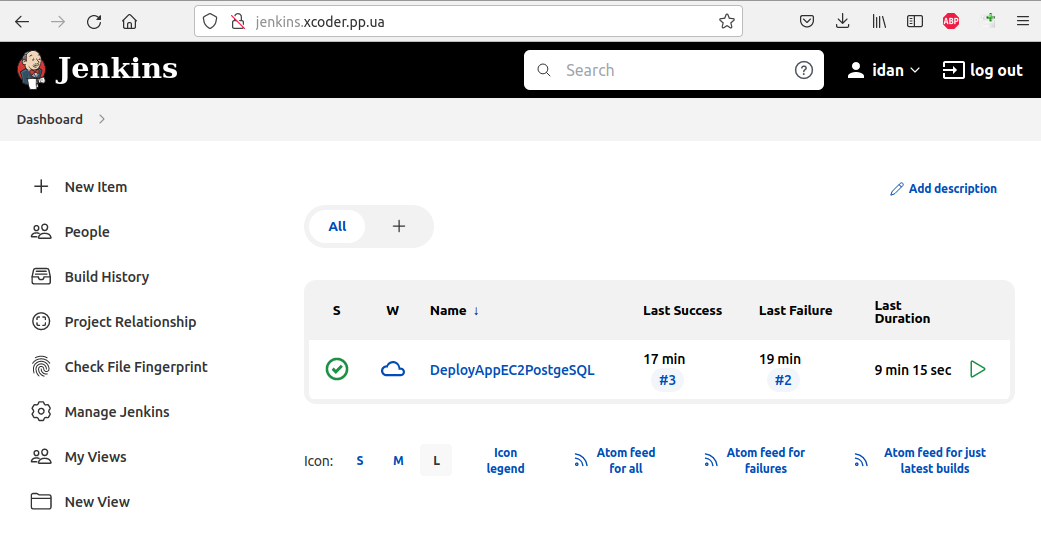
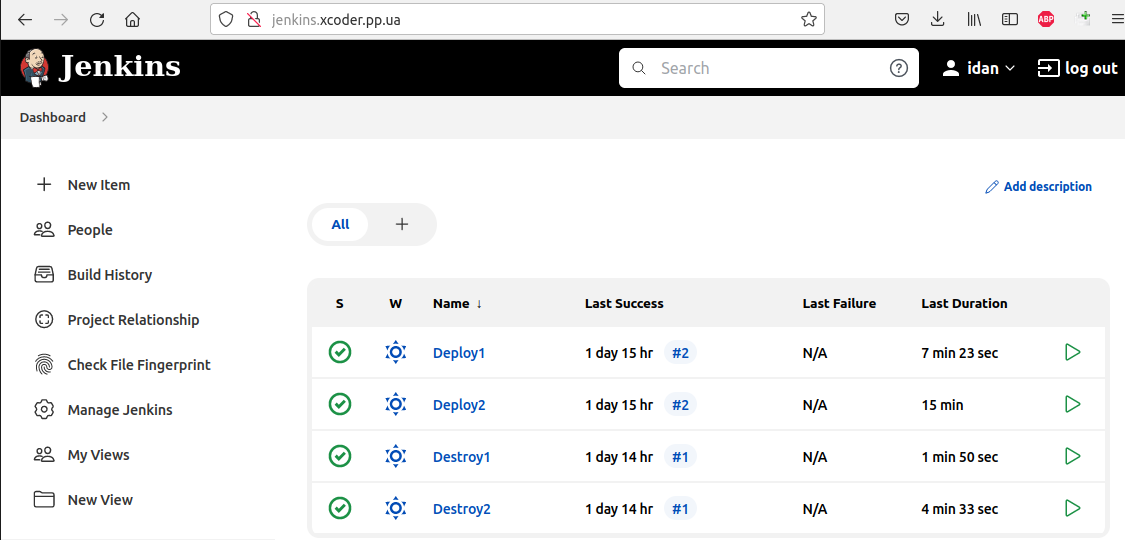
fix some m9 files

diff --git a/m9/Deploy1Application.md b/m9/Deploy1Application.md
@@ -1,12 +1,25 @@
 ## Jenkins Deploy petclinic application pipeline
 
-### 1. Manually add credentials to Jenkins for AWS access and future database access
+### 1. Infrastructure configuration storage
+
+Manually create S3 Bucket **pet-clinic-project**
+
+![p1](img/p1.png)
+
+and DynamoDB lock table **petclinic-tf-lock**
+
+![p2](img/p2.png)
+
+with partition key **LockID**.
+
+
+### 2. Manually add credentials to Jenkins for AWS access and future database access
 
 ![a1](img/a1.png)
 
-### 2. Create and configure Pipeline that creates,  configures infrastructure, deploys application
+### 3. Create and configure Pipeline that creates,  configures infrastructure, deploys application
 
-Create new pipeline
+Create new pipeline Deploy1
 
 ![a3](img/a3.png)
 
@@ -32,7 +45,7 @@ pipeline {
         stage ('Get Project from repository'){
             steps {
                 git branch: 'master', url: 'https://github.com/uixcoder/spring-framework-petclinic.git'
-                dir ('Deploy_AWS_EC2_PostgerSQL') {
+                dir ('Deploy') {
                     git branch: 'master', url: 'https://github.com/uixcoder/Deploy_AWS_EC2_PostgerSQL.git'
                 }
             }
@@ -40,38 +53,38 @@ pipeline {
         stage ('Create AWS infrastructure'){
             steps {
               sh script: '''
-                    chdir Deploy_AWS_EC2_PostgerSQL/Terraform
-                    terraform init -reconfigure
+                    chdir Deploy/Terraform
+                    terraform init -force-copy
                     terraform apply --auto-approve
               ''' 
             }
         }  
         stage ('Fix error / Preconfigure Project'){
            steps {
-                sh "chmod u+x Deploy_AWS_EC2_PostgerSQL/Ansible/app/fix"
-                sh "./Deploy_AWS_EC2_PostgerSQL/Ansible/app/fix"
+                sh "chmod u+x Deploy/Ansible/app/fix"
+                sh "./Deploy/Ansible/app/fix"
                 sh "find . -type f -name 'pom.xml' -exec sed -i 's/db_name_template/$DB_NAME/g' {} +"
                 sh "find . -type f -name 'pom.xml' -exec sed -i 's/db_user_template/$DB_USER/g' {} +"
                 sh "find . -type f -name 'pom.xml' -exec sed -i 's/db_password_template/$DB_PASSWORD/g' {} +"
-                sh "find ./Deploy_AWS_EC2_PostgerSQL/Ansible/ -type f -name 'configDbServer.yml' -exec sed -i 's/db_name_template/$DB_NAME/g' {} +"
-                sh "find ./Deploy_AWS_EC2_PostgerSQL/Ansible/ -type f -name 'configDbServer.yml' -exec sed -i 's/db_user_template/$DB_USER/g' {} +"
-                sh "find ./Deploy_AWS_EC2_PostgerSQL/Ansible/ -type f -name 'configDbServer.yml' -exec sed -i 's/db_password_template/$DB_PASSWORD/g' {} +"                   
+                sh "find ./Deploy/Ansible/ -type f -name 'configDbServer.yml' -exec sed -i 's/db_name_template/$DB_NAME/g' {} +"
+                sh "find ./Deploy/Ansible/ -type f -name 'configDbServer.yml' -exec sed -i 's/db_user_template/$DB_USER/g' {} +"
+                sh "find ./Deploy/Ansible/ -type f -name 'configDbServer.yml' -exec sed -i 's/db_password_template/$DB_PASSWORD/g' {} +"                   
             }
         }        
         stage ('Config AWS infrastructure'){
             steps {
-                sh "rm -f Deploy_AWS_EC2_PostgerSQL/config/ATC.pem"
+                sh "rm -f Deploy/config/ATC.pem"
                 withCredentials([file(credentialsId: 'SSH_APP_KEY', variable: 'appsshkey')]) {
-                    sh "cp \$appsshkey Deploy_AWS_EC2_PostgerSQL/config/"
+                    sh "cp \$appsshkey Deploy/config/"
                 }   
                 sh "ansible --version"
                 sh script: '''
-                    chdir Deploy_AWS_EC2_PostgerSQL/Ansible
+                    chdir Deploy/Ansible
                     ansible-playbook configAppServer.yml
                     ansible-playbook configDbServer.yml
                     
                 '''                 
-                sh "rm -f Deploy_AWS_EC2_PostgerSQL/config/ATC.pem"
+                sh "rm -f Deploy/config/ATC.pem"
             }
         }    
         stage('Validate') {
@@ -98,31 +111,30 @@ pipeline {
             steps {
                 sh "pwd"
                 sh "[ ! -f target/petclinic.war ] || mv -f target/petclinic.war target/ROOT.war"
-                sh "rm -f Deploy_AWS_EC2_PostgerSQL/config/ATC.pem"
+                sh "rm -f Deploy/config/ATC.pem"
                 withCredentials([file(credentialsId: 'SSH_APP_KEY', variable: 'appsshkey')]) {
-                    sh "cp \$appsshkey Deploy_AWS_EC2_PostgerSQL/config/"
+                    sh "cp \$appsshkey Deploy/config/"
                 }   
                 sh script: '''
-                    chdir Deploy_AWS_EC2_PostgerSQL/Ansible
+                    chdir Deploy/Ansible
                     ansible-playbook deployApp.yml
                 '''
-                sh "rm -f Deploy_AWS_EC2_PostgerSQL/config/ATC.pem"                
+                sh "rm -f Deploy/config/ATC.pem"                
             }
         }
     }
 }
-
 ```
 
-### 3. Build Application
+### 4. Build Application
 
 ![a5](img/a5.png)
 
-### 4. Deployed App
+### 5. Deployed App
 
 ![a6](img/a6.png)
 
-### 5. Add GithHub Webhook for auto start build after git changes
+### 6. Add GithHub Webhook for auto start build after git changes
 
 Add WebHook for Repository Settings
 
@@ -132,13 +144,15 @@ Add Listener to Jenkins Pipeline
 
 ![a9](img/a9.png)
 
-Build starts automatically after pushing to repository
+Build starts automatically after pushing to app repository https://github.com/uixcoder/spring-framework-petclinic.git
 
 ![a7](img/a7.png)
 
 ![a7_0](img/a7_0.png)
 
-### 6. Test Load of Docker/Jenkins EC2 instance 
+The same configurationss are done for infrastructure repository https://github.com/uixcoder/Deploy_AWS_EC2_PostgerSQL.git
+
+### 7. Test Load of Docker/Jenkins EC2 instance 
 
 ![ai0](img/ai0.png)
 

diff --git a/m9/readme.md b/m9/readme.md
@@ -1,0 +1,13 @@
+# PetClinic Project AWS Deployment
+
+The project [**spring-framework-petclinic**](https://github.com/spring-petclinic/spring-framework-petclinic) was selected as project for AWS Deployment.
+
+[My forked version of project](https://github.com/uixcoder/spring-framework-petclinic) has some small changes in **pom.xml** file as i done 2 variants of deployment (related to default database selection).
+
+Stages:
+
+1. **Manual deployment on Virtualbox VM (Ubuntu 18.04)**
+    
+    -- Gathering info about needed software
+
+    -- 

diff --git a/m9/JenkinsConfig.md b/m9/JenkinsConfig.md
@@ -200,12 +200,12 @@ Now remove 2 executors from built-in node
 
 ![j25](img/j25.png)
 
-### 6. Add 2G swap area on Docker EC2 Instance
+### 6. Add 1G swap area on Docker EC2 Instance
 
 Add swapfile
 
 ```
-$ sudo dd if=/dev/zero of=/swapfile bs=2M count=1024
+$ sudo dd if=/dev/zero of=/swapfile bs=1M count=1024
 $ sudo chmod 0600 /swapfile
 $ sudo mkswap /swapfile
 $ sudo swapon /swapfile

diff --git a/m9/Destroy1Deployment.md b/m9/Destroy1Deployment.md
@@ -2,6 +2,12 @@
 
 ### 1. Pipeline
 
+Create new pipeline Destroy1
+
+
+
+Add [code](Jenkins2.txt) to pipeline
+
 ```
 pipeline {
     agent {label 'agent1'}
